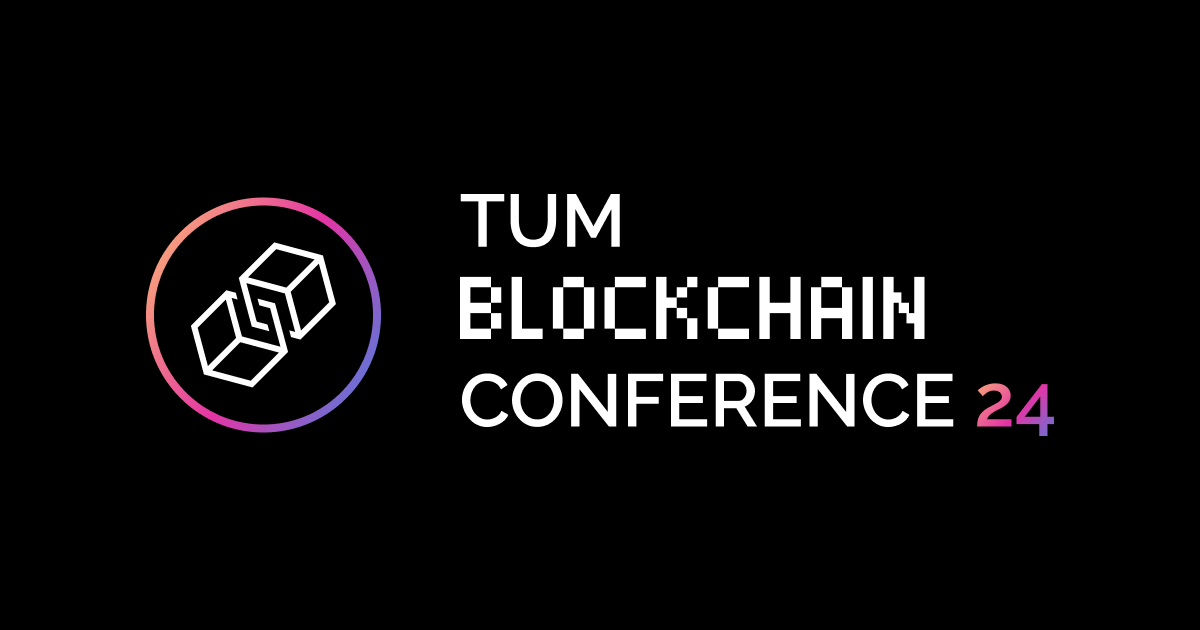
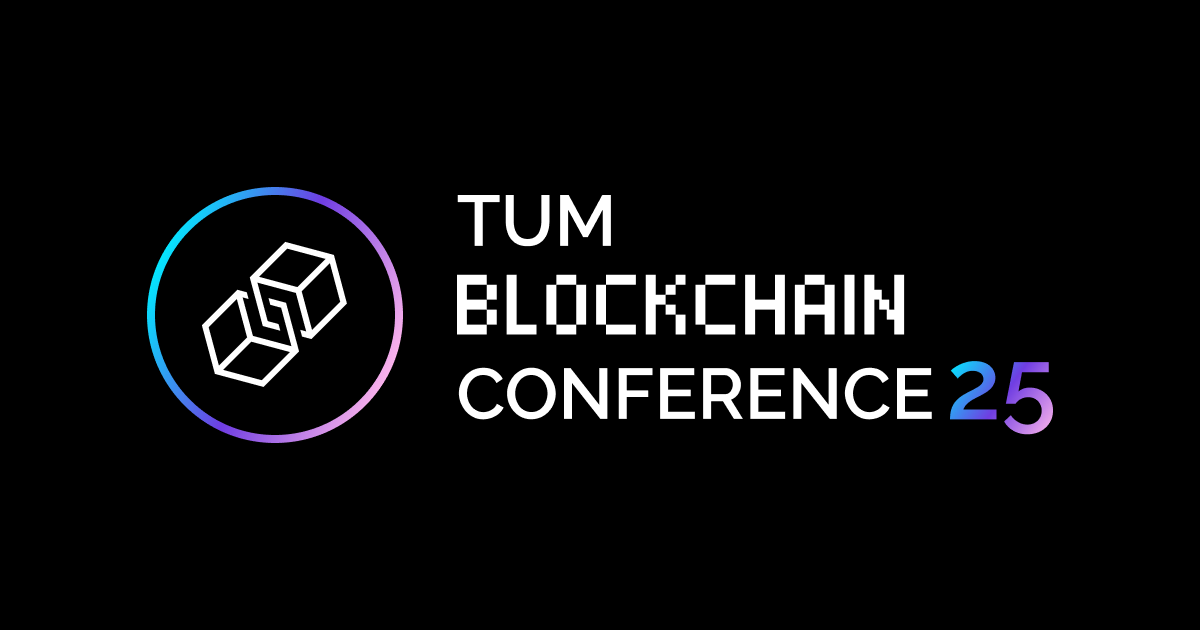
change: og images and error handling

diff --git a/hooks/useSpeaker.ts b/hooks/useSpeaker.ts
@@ -4,79 +4,173 @@ export const findAssetURL = (
   assetsArray: any[],
   assetId: string,
 ): string | undefined => {
+  if (!assetsArray || !assetId) {
+    console.warn(`Missing assets array or asset ID: ${assetId}`);
+    return undefined;
+  }
+
   const asset = assetsArray.find((assetObj) => assetObj.sys.id == assetId);
 
   return asset ? `https:${asset.fields.file.url}` : undefined;
 };
 
 export const useSpeaker = async (count?: number): Promise<Speaker[]> => {
-  const spaceId = process.env.CONTENTFUL_SPACE_ID!;
-  const environment = process.env.CONTENTFUL_ENV!;
-  const url = new URL(
-    `https://cdn.contentful.com/spaces/${spaceId}/environments/${environment}/entries`,
-  );
+  try {
+    const spaceId = process.env.CONTENTFUL_SPACE_ID;
+    const environment = process.env.CONTENTFUL_ENV;
+    const accessToken = process.env.CONTENTFUL_ACCESS_TOKEN;
 
-  let speakers: Speaker[] = [];
-  let skipCounter = 0;
-  let hasMoreItems = true;
-
-  do {
-    url.search = new URLSearchParams({
-      content_type: "speaker",
-      access_token: process.env.CONTENTFUL_ACCESS_TOKEN!,
-      order: "fields.priority,fields.name",
-      skip: skipCounter + "",
-      ...(count && { limit: count + "" }),
-    }).toString();
-
-    const res = await fetch(url, {
-      method: "GET",
-      headers: {
-        Authorization: process.env.CONTENTFUL_ACCESS_TOKEN!,
-      },
-    });
-
-    const jsonRes = await res.json();
-    const { total } = jsonRes;
-    const items = jsonRes.items || [];
-
-    if (items.length === 0) {
-      // No more items to fetch
-      hasMoreItems = false;
-      break;
+    if (!spaceId || !environment || !accessToken) {
+      console.error("Missing required Contentful environment variables");
+      return [];
     }
 
-    speakers = speakers.concat(
-      items.map((item: any): Speaker => {
-        return {
-          name: item.fields.name,
-          description: item.fields.description,
-          profilePhoto: findAssetURL(
-            jsonRes.includes.Asset,
-            item.fields.profilePhoto.sys.id,
-          ),
-          url: item.fields.url,
-          urlType: item.fields.urlType,
-          priority: item.fields.priority,
-        };
-      }),
+    const url = new URL(
+      `https://cdn.contentful.com/spaces/${spaceId}/environments/${environment}/entries`,
     );
 
-    // Stop iterating if we've reached the requested count
-    if (count && speakers.length >= count) {
-      hasMoreItems = false;
-    } else if (skipCounter + items.length >= total) {
-      // We've fetched all available items
-      hasMoreItems = false;
-    } else {
-      console.log("Paginating speaker");
-      skipCounter += 100;
-    }
-  } while (hasMoreItems);
+    let speakers: Speaker[] = [];
+    let skipCounter = 0;
+    let hasMoreItems = true;
+    let totalItems = 0;
+    let requestCount = 0;
 
-  if (!speakers) {
-    console.warn("Speakers is undefined");
+    console.info(`Fetching speakers${count ? ` (limit: ${count})` : ""}`);
+
+    do {
+      requestCount++;
+      const params = {
+        content_type: "speaker",
+        access_token: accessToken,
+        order: "fields.priority,fields.name",
+        skip: skipCounter + "",
+        ...(count && { limit: count + "" }),
+      };
+
+      url.search = new URLSearchParams(params).toString();
+
+      console.info(`Speaker API request #${requestCount}: skip=${skipCounter}`);
+
+      try {
+        const res = await fetch(url, {
+          method: "GET",
+          headers: {
+            Authorization: accessToken,
+          },
+        });
+
+        if (!res.ok) {
+          console.error(`API error: ${res.status} ${res.statusText}`);
+          break;
+        }
+
+        const jsonRes = await res.json();
+
+        if (!jsonRes) {
+          console.error("Invalid API response: empty or malformed JSON");
+          break;
+        }
+
+        const { total } = jsonRes;
+        totalItems = total || 0;
+        const items = jsonRes.items || [];
+
+        console.info(
+          `Received ${items.length} speakers (total available: ${totalItems})`,
+        );
+
+        if (items.length === 0) {
+          console.info("No more items to fetch");
+          hasMoreItems = false;
+          break;
+        }
+
+        const assets = jsonRes.includes?.Asset || [];
+        if (assets.length === 0) {
+          console.warn("No assets found in the response");
+        }
+
+        const newSpeakers = items
+          .map((item: any): Speaker | null => {
+            try {
+              if (!item.fields) {
+                console.warn(
+                  `Speaker item is missing fields: ${JSON.stringify(item.sys)}`,
+                );
+                return null;
+              }
+
+              const {
+                name,
+                description,
+                profilePhoto,
+                url,
+                urlType,
+                priority,
+              } = item.fields;
+
+              if (!name) {
+                console.warn(
+                  `Speaker is missing name: ${JSON.stringify(item.sys)}`,
+                );
+              }
+
+              if (!profilePhoto) {
+                console.warn(
+                  `Speaker "${name || "unknown"}" is missing profile photo`,
+                );
+              }
+
+              const photoUrl = profilePhoto
+                ? findAssetURL(assets, profilePhoto.sys.id)
+                : undefined;
+
+              return {
+                name: name || "Unknown Speaker",
+                description: description || "",
+                profilePhoto: photoUrl,
+                url: url || "",
+                urlType: urlType || "",
+                priority: priority || 999,
+              };
+            } catch (err) {
+              console.error(
+                `Error processing speaker data: ${err instanceof Error ? err.message : String(err)}`,
+              );
+              return null;
+            }
+          })
+          .filter(Boolean) as Speaker[];
+
+        speakers = speakers.concat(newSpeakers);
+
+        // Stop iterating if we've reached the requested count
+        if (count && speakers.length >= count) {
+          console.info(`Reached requested count of ${count} speakers`);
+          hasMoreItems = false;
+        } else if (skipCounter + items.length >= totalItems) {
+          console.info(`Fetched all available speakers (${totalItems})`);
+          hasMoreItems = false;
+        } else {
+          console.info(
+            `Paginating speakers, fetched ${speakers.length} so far`,
+          );
+          skipCounter += 100;
+        }
+      } catch (err) {
+        console.error(
+          `Error fetching speakers: ${err instanceof Error ? err.message : String(err)}`,
+        );
+        hasMoreItems = false;
+      }
+    } while (hasMoreItems);
+
+    console.info(`Successfully fetched ${speakers.length} speakers`);
+    return speakers;
+  } catch (err) {
+    console.error(
+      `Fatal error in useSpeaker hook: ${err instanceof Error ? err.message : String(err)}`,
+    );
+    return [];
   }
-
-  return speakers ?? [];
 };
